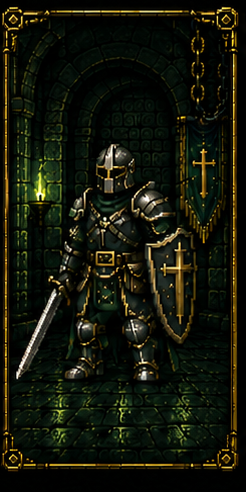
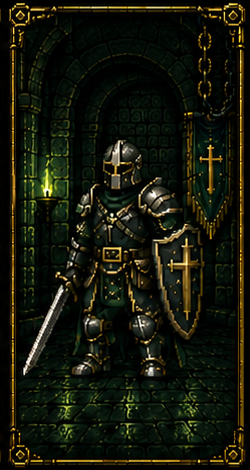
feat: remove optional quests + RUNE chip; pixel-detected card slicing
Seeded WALK optional quest removed (migration archives it on existing saves,
history intact); + RUNE category chip removed from Quests. Knight cards are
re-sliced by detecting each row's bright span and dividing equally, fixing
the cut-off LEGENDARY/MYTHIC/ULTIMATE DUNGEON SLAYER cards.

diff --git a/src/data/seed.ts b/src/data/seed.ts
@@ -1,5 +1,5 @@
 // data/seed.ts — first-run seed: built-in categories, defaults, starter quests.
-import { db, kvSet } from './db';
+import { db, kvGet, kvSet } from './db';
 import { newId } from '../core/ids';
 import { dayKey } from '../core/dates';
 import { INITIAL_VIGOR } from '../game/vigor';
@@ -46,8 +46,25 @@ const ACHIEVEMENTS: Achievement[] = [
 
 const STARTER_EXERCISES = ['Bench Press', 'Squat', 'Deadlift', 'Overhead Press', 'Barbell Row', 'Pull-Up'];
 
+/** One-time data migrations for existing saves (idempotent, kv-flagged). */
+async function runMigrations(): Promise<void> {
+  // m1: optional quests removed from the default experience — retire the
+  // seeded WALK quest and its unactioned instances (history stays intact).
+  if (!(await kvGet('migr-no-optional', false))) {
+    const walk = (await db.templates.toArray())
+      .find((t) => t.name === 'WALK' && t.optional && t.archivedAt === undefined);
+    if (walk !== undefined) {
+      await db.templates.put({ ...walk, archivedAt: new Date().toISOString() });
+      const open = (await db.instances.where('templateId').equals(walk.id).toArray())
+        .filter((i) => i.status === 'todo');
+      for (const i of open) await db.instances.delete(i.id);
+    }
+    await kvSet('migr-no-optional', true);
+  }
+}
+
 export async function seedIfEmpty(): Promise<void> {
-  if ((await db.categories.count()) > 0) return;
+  if ((await db.categories.count()) > 0) { await runMigrations(); return; }
 
   const categories: Category[] = BUILTIN_CATEGORIES.map((name) => ({ id: newId(), name, builtin: true }));
   const catId = (name: string): string => categories.find((c) => c.name === name)!.id;
@@ -68,11 +85,6 @@ export async function seedIfEmpty(): Promise<void> {
       id: newId(), name: 'GYM', categoryId: catId('BODY'), difficulty: 'hard',
       kind: 'workout', main: true, optional: false,
       recurrence: { type: 'daysOfWeek', days: [1, 3, 5] }, reminders: [], createdAt,
-    },
-    {
-      id: newId(), name: 'WALK', categoryId: catId('BODY'), difficulty: 'easy',
-      kind: 'binary', main: false, optional: true, recurrence: { type: 'everyDay' },
-      reminders: [], createdAt,
     },
   ];
 

diff --git a/src/data/__tests__/lifecycle.test.ts b/src/data/__tests__/lifecycle.test.ts
@@ -33,18 +33,16 @@ describe('ensureDay generation + completion + sealing narrative', () => {
   it('materializes Monday instances and is idempotent', async () => {
     await ensureDay('2026-08-17');
     let instances = await db.instances.where('date').equals('2026-08-17').toArray();
-    expect(instances.map((i) => i.name).sort()).toEqual(['GYM', 'MORNING ROUTINE', 'WALK', 'WATER']);
+    expect(instances.map((i) => i.name).sort()).toEqual(['GYM', 'MORNING ROUTINE', 'WATER']);
     const gym = instances.find((i) => i.name === 'GYM')!;
     expect(gym.main).toBe(true);
     expect(gym.optional).toBe(false);
-    const walk = instances.find((i) => i.name === 'WALK')!;
-    expect(walk.optional).toBe(true);
     const water = instances.find((i) => i.name === 'WATER')!;
     expect(water.target).toBe(128);
 
     await ensureDay('2026-08-17'); // idempotent
     instances = await db.instances.where('date').equals('2026-08-17').toArray();
-    expect(instances).toHaveLength(4);
+    expect(instances).toHaveLength(3);
   });
 
   it('creates the weekly siege from available XP', async () => {
@@ -109,15 +107,13 @@ describe('ensureDay generation + completion + sealing narrative', () => {
 
     const routine17 = await instanceByName('2026-08-17', 'MORNING ROUTINE');
     expect(routine17.status).toBe('failed');
-    const walk17 = await instanceByName('2026-08-17', 'WALK');
-    expect(walk17.status).toBe('todo'); // optional — never failed
 
     // Tuesday has no GYM (MWF)
     const tue = await db.instances.where('date').equals('2026-08-18').toArray();
-    expect(tue.map((i) => i.name).sort()).toEqual(['MORNING ROUTINE', 'WALK', 'WATER']);
+    expect(tue.map((i) => i.name).sort()).toEqual(['MORNING ROUTINE', 'WATER']);
     // Wednesday materialized
     const wed = await db.instances.where('date').equals('2026-08-19').toArray();
-    expect(wed.map((i) => i.name).sort()).toEqual(['GYM', 'MORNING ROUTINE', 'WALK', 'WATER']);
+    expect(wed.map((i) => i.name).sort()).toEqual(['GYM', 'MORNING ROUTINE', 'WATER']);
 
     // derived state refolded: A then F with no embers
     const streaks = await kvGet<{ overall: number; overallBest: number } | null>('streaks', null);

diff --git a/src/ui/quests/QuestsScreen.tsx b/src/ui/quests/QuestsScreen.tsx
@@ -59,23 +59,13 @@ export default function QuestsScreen() {
   const templates = useOath((s) => s.templates);
   const categories = useOath((s) => s.categories);
   const perQuestStreaks = useOath((s) => s.perQuestStreaks);
-  const addCategory = useOath((s) => s.addCategory);
 
   const [filter, setFilter] = useState<string>('all');
-  const [addingRune, setAddingRune] = useState(false);
-  const [runeName, setRuneName] = useState('');
   const [editor, setEditor] = useState<{ open: boolean; template: QuestTemplate | null }>({
     open: false, template: null,
   });
 
   const weeklyDone = useWeeklyDone(templates, today);
-
-  const submitRune = async (): Promise<void> => {
-    const name = runeName.trim().toUpperCase();
-    setAddingRune(false);
-    setRuneName('');
-    if (name !== '' && !categories.some((c) => c.name === name)) await addCategory(name);
-  };
 
   const shown = templates
     .filter((t) => filter === 'all' || t.categoryId === filter)
@@ -105,25 +95,6 @@ export default function QuestsScreen() {
             {c.name}
           </button>
         ))}
-        {addingRune ? (
-          <input
-            autoFocus
-            style={{
-              fontFamily: 'var(--font-body)', fontSize: 18, color: 'var(--text-hi)',
-              background: 'var(--bg-deep)', border: '1px solid var(--neon)',
-              padding: '4px 8px', width: 110, outline: 'none', flexShrink: 0,
-            }}
-            placeholder="RUNE NAME"
-            value={runeName}
-            onChange={(e) => setRuneName(e.target.value)}
-            onKeyDown={(e) => { if (e.key === 'Enter') void submitRune(); }}
-            onBlur={() => { void submitRune(); }}
-          />
-        ) : (
-          <button type="button" style={chipStyle(false)} onClick={() => setAddingRune(true)}>
-            + RUNE
-          </button>
-        )}
       </div>
 
       <SectionLabel>Sworn Quests</SectionLabel>

diff --git a/src/data/__tests__/db.test.ts b/src/data/__tests__/db.test.ts
@@ -13,9 +13,9 @@ describe('seedIfEmpty', () => {
     expect(categories.every((c) => c.builtin)).toBe(true);
 
     const templates = await db.templates.toArray();
-    expect(templates).toHaveLength(4);
+    expect(templates).toHaveLength(3);
     const names = templates.map((t) => t.name).sort();
-    expect(names).toEqual(['GYM', 'MORNING ROUTINE', 'WALK', 'WATER']);
+    expect(names).toEqual(['GYM', 'MORNING ROUTINE', 'WATER']);
 
     const water = templates.find((t) => t.name === 'WATER')!;
     expect(water.kind).toBe('quantity');
@@ -36,11 +36,6 @@ describe('seedIfEmpty', () => {
     expect(routine.difficulty).toBe('easy');
     expect(routine.kind).toBe('binary');
     expect(routine.recurrence).toEqual({ type: 'everyDay' });
-
-    const walk = templates.find((t) => t.name === 'WALK')!;
-    expect(walk.difficulty).toBe('easy');
-    expect(walk.optional).toBe(true);
-    expect(walk.recurrence).toEqual({ type: 'everyDay' });
 
     const exercises = await db.exercises.toArray();
     expect(exercises.map((e) => e.name).sort()).toEqual([
@@ -79,7 +74,7 @@ describe('seedIfEmpty', () => {
     // idempotent: run again, counts unchanged
     await seedIfEmpty();
     expect(await db.categories.count()).toBe(5);
-    expect(await db.templates.count()).toBe(4);
+    expect(await db.templates.count()).toBe(3);
     expect(await db.exercises.count()).toBe(6);
   });
 

diff --git a/src/app/__tests__/store.test.ts b/src/app/__tests__/store.test.ts
@@ -41,7 +41,6 @@ describe('OathStore', () => {
     const names = s.instances.map((i) => i.name);
     expect(names).toContain('MORNING ROUTINE');
     expect(names).toContain('WATER');
-    expect(names).toContain('WALK');
     expect(s.siege).not.toBeNull();
     expect(s.character.level).toBe(1);
     expect(s.character.title).toBe('ROOKIE KNIGHT');
@@ -53,9 +52,6 @@ describe('OathStore', () => {
     expect(s.vigor).toBe(50);
     expect(s.vigorBand).toBe('EMBER CAMP');
     expect(s.effects).toHaveLength(0);
-    // sorted: required before optional
-    const walkIdx = names.indexOf('WALK');
-    expect(walkIdx).toBe(names.length - 1);
   });
 
   it('all 5 tabs switch through the store', () => {
